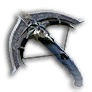
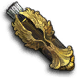
Added item selector to crafting page

diff --git a/src/components/crafting/MainItemFrame.tsx b/src/components/crafting/MainItemFrame.tsx
@@ -1,0 +1,185 @@
+import ItemFrame from '@/components/crafting/ItemFrame';
+import { cn } from '@/utils/classNames';
+import * as Popover from '@radix-ui/react-popover';
+import Image from 'next/image';
+import React, { useState } from 'react';
+
+export default function MainItemFrame({
+  targetItem,
+  category,
+  setCategory,
+  selectedTier,
+  setTier,
+  weaponType,
+  setWeaponType,
+  itemRarity,
+  setItemRarity
+}: {
+  targetItem: CraftCostType;
+  category: string
+  setCategory: React.Dispatch<React.SetStateAction<string>>
+  selectedTier: 1 | 2 | 3 | 4
+  setTier: React.Dispatch<React.SetStateAction<1 | 2 | 3 | 4>>
+  weaponType: "primary" | "secondary"
+  setWeaponType: React.Dispatch<React.SetStateAction<"primary" | "secondary">>
+  itemRarity: RarityTypes
+  setItemRarity: React.Dispatch<React.SetStateAction<RarityTypes>>
+}) {
+
+  return (
+    <Popover.Root>
+      <Popover.Trigger asChild>
+        <ItemFrame
+          item={targetItem.name as ItemTypes}
+          rarity={targetItem.rarity}
+          size='lg'
+          className='my-auto shrink-0'
+        />
+      </Popover.Trigger>
+      <Popover.Anchor />
+      <Popover.Portal>
+        <Popover.Content
+          sideOffset={-40}
+          alignOffset={-20}
+          side='right'
+          align='center'
+          className='flex flex-col gap-4 rounded-lg border border-white/10 bg-primary-600/60 p-4 backdrop-blur-lg'
+        >
+          <header className='flex justify-between gap-8'>
+            <h2 className='text-2xl font-bold text-white'>Items</h2>
+            <div className='flex gap-2.5'>
+              <button
+                onClick={() => setItemRarity('Legendary')}
+                className={cn(
+                  'h-8 w-8 rounded-md bg-legendary-frame opacity-30 motion-safe:transition-opacity',
+                  { ['opacity-100']: itemRarity === 'Legendary' }
+                )}
+              />
+              <button
+                onClick={() => setItemRarity('Epic')}
+                className={cn(
+                  'h-8 w-8 rounded-md bg-epic-frame opacity-30 motion-safe:transition-opacity',
+                  {
+                    ['opacity-100']: itemRarity === 'Epic',
+                  }
+                )}
+              />
+              <button
+                onClick={() => setItemRarity('Rare')}
+                className={cn(
+                  'h-8 w-8 rounded-md bg-rare-frame opacity-30 motion-safe:transition-opacity',
+                  {
+                    ['opacity-100']: itemRarity === 'Rare',
+                  }
+                )}
+              />
+              <button
+                onClick={() => setItemRarity('Uncommon')}
+                className={cn(
+                  'h-8 w-8 rounded-md bg-uncommon-frame opacity-30 motion-safe:transition-opacity',
+                  {
+                    ['opacity-100']: itemRarity === 'Uncommon',
+                  }
+                )}
+              />
+            </div>
+          </header>
+
+          <div className='flex gap-2.5'>
+            {Items.map(({ value, image }) => (
+              <MenuButton
+                key={value}
+                className={cn({
+                  ['bg-primary-100/10']: category === value,
+                })}
+                onClick={() => setCategory(value)}
+              >
+                {image.map((i, idx) => (
+                  <Image
+                    key={idx}
+                    alt='value'
+                    src={i}
+                    width={40}
+                    height={40}
+                    className='object-contain'
+                  />
+                ))}
+              </MenuButton>
+            ))}
+          </div>
+
+          <div className='flex gap-2.5'>
+            {([1, 2, 3, 4] as const).map((tier) => (
+              <MenuButton
+                key={tier}
+                className={cn('font-ptSerif text-3xl font-bold text-white', {
+                  ['bg-primary-100/10']: selectedTier === tier,
+                })}
+                onClick={() => setTier(tier)}
+              >
+                {tier === 4 ? 'IV' : 'I'.repeat(tier)}
+              </MenuButton>
+            ))}
+          </div>
+
+          {category === 'weapon' && (
+            <div className='flex gap-2.5 text-sm font-medium text-white'>
+              <MenuButton
+                onClick={() => setWeaponType('primary')}
+                className={cn('py-2', {
+                  ['bg-primary-100/10']: weaponType === 'primary',
+                })}
+              >
+                Primary
+              </MenuButton>
+              <MenuButton
+                onClick={() => setWeaponType('secondary')}
+                className={cn('py-2', {
+                  ['bg-primary-100/10']: weaponType === 'secondary',
+                })}
+              >
+                Secondary
+              </MenuButton>
+            </div>
+          )}
+        </Popover.Content>
+      </Popover.Portal>
+    </Popover.Root>
+  );
+}
+
+const Items = [
+  {
+    value: 'weapon',
+    image: ['/items/weapon.png'],
+  },
+  {
+    value: 'armor',
+    image: ['/items/armor.png'],
+  },
+  {
+    value: 'necklace',
+    image: ['/items/necklace.png', '/items/bracelet.png'],
+  },
+  {
+    value: 'earrings',
+    image: ['/items/earrings.png', '/items/ring.png'],
+  },
+];
+
+function MenuButton({
+  children,
+  ...props
+}: React.HTMLAttributes<HTMLButtonElement>) {
+  return (
+    <button
+      {...props}
+      className={cn(
+        'flex grow items-center justify-center gap-2 rounded-md p-4 motion-safe:transition-colors',
+        props.className
+      )}
+    >
+      {children}
+    </button>
+  );
+}

diff --git a/src/components/crafting/CraftingMain.tsx b/src/components/crafting/CraftingMain.tsx
@@ -1,16 +1,24 @@
 import { CraftingCalcAtom, defaultCostObject } from '@/atoms/CraftingCalc';
 import { SettingsAtom } from '@/atoms/Settings';
-import ItemFrame from '@/components/crafting/ItemFrame';
 import TableCostFragment from '@/components/crafting/TableCostFragment';
 import CraftCost from '@/data/CraftCost';
 import { ComplementaryItems, calculateCraftByItem } from '@/utils/index';
 import { useAtom } from 'jotai';
-import React, { useEffect } from 'react';
+import React, { useEffect, useState } from 'react';
+import MainItemFrame from './MainItemFrame';
 import TotalCost from './TotalCost';
 
 export default function CraftingMain() {
   const [settings] = useAtom(SettingsAtom);
   const [craftCost, setCraftCost] = useAtom(CraftingCalcAtom);
+
+  const [category, setCategory] = useState('weapon');
+  const [selectedTier, setTier] = useState<1 | 2 | 3 | 4>(1);
+  const [weaponType, setWeaponType] = useState<'primary' | 'secondary'>(
+    'primary'
+  );
+  const [itemRarity, setItemRarity] = useState<RarityTypes>('Epic');
+
   const targetItem = CraftCost.find((obj) => obj.name === 'weapon')!;
 
   useEffect(() => {
@@ -28,11 +36,16 @@ export default function CraftingMain() {
   return (
     <div className='flex w-full flex-col gap-4 p-14'>
       <section className='mb-4 flex justify-center gap-16'>
-        <ItemFrame
-          item={targetItem.name as ItemTypes}
-          rarity={targetItem.rarity}
-          size='lg'
-          className='my-auto shrink-0'
+        <MainItemFrame
+          targetItem={targetItem}
+          category={category}
+          setCategory={setCategory}
+          selectedTier={selectedTier}
+          setTier={setTier}
+          weaponType={weaponType}
+          setWeaponType={setWeaponType}
+          itemRarity={itemRarity}
+          setItemRarity={setItemRarity}
         />
 
         <table>

diff --git a/src/components/crafting/ItemFrame.tsx b/src/components/crafting/ItemFrame.tsx
@@ -1,6 +1,6 @@
 import { cn } from '@/utils/classNames';
 import Image from 'next/image';
-import { HTMLAttributes } from 'react';
+import { HTMLAttributes, useState } from 'react';
 
 export default function ItemFrame({
   item,
@@ -10,6 +10,7 @@ export default function ItemFrame({
   className,
   ...props
 }: ItemFrameProps) {
+  
   return (
     <span
       className={cn(
@@ -41,7 +42,8 @@ const sizeToPX = {
 
 const variantStyles: { [key in RarityTypes | 'Default']: string } = {
   Default: 'border-[#272043] bg-default-frame drop-shadow-[0_0_8px_#272043]',
-  Legendary: 'border-[#DCC529] bg-legendary-frame drop-shadow-[0_0_8px_#DCC529]',
+  Legendary:
+    'border-[#DCC529] bg-legendary-frame drop-shadow-[0_0_8px_#DCC529]',
   Epic: 'border-[#761B29] bg-epic-frame drop-shadow-[0_0_8px_#761B29]',
   Rare: 'border-[#2F60A8] bg-rare-frame drop-shadow-[0_0_8px_#2F60A8]',
   Uncommon: 'border-[#38896B] bg-uncommon-frame drop-shadow-[0_0_8px_#38896B]',

diff --git a/src/app/layout.tsx b/src/app/layout.tsx
@@ -1,6 +1,6 @@
 import '@/styles/globals.css';
 import { cn } from '@/utils/classNames';
-import { Noto_Sans_KR } from '@next/font/google';
+import { Noto_Sans_KR, PT_Serif } from '@next/font/google';
 import Providers from '../components/Providers';
 
 const notoSansKR = Noto_Sans_KR({
@@ -11,13 +11,21 @@ const notoSansKR = Noto_Sans_KR({
   weight: ['100', '300', '400', '500', '700', '900'],
 });
 
+const ptSerif = PT_Serif({
+  style: 'normal',
+  display: 'swap',
+  subsets: ['latin'],
+  variable: '--font-ptSerif',
+  weight: ['700'],
+});
+
 export default function RootLayout({
   children,
 }: {
   children: React.ReactNode;
 }) {
   return (
-    <html lang='en' className={cn(notoSansKR.variable, 'antialiased')}>
+    <html lang='en' className={cn(notoSansKR.variable, ptSerif.variable, 'antialiased')}>
       <head />
       <Providers>
         <body>{children}</body>

diff --git a/tailwind.config.js b/tailwind.config.js
@@ -9,6 +9,7 @@ module.exports = {
     extend: {
       fontFamily: {
         ubuntu: ['var(--font-notoSansKR)'],
+        ptSerif: ['var(--font-ptSerif)'],
       },
       backgroundImage: {
         'inventory-gradient':
